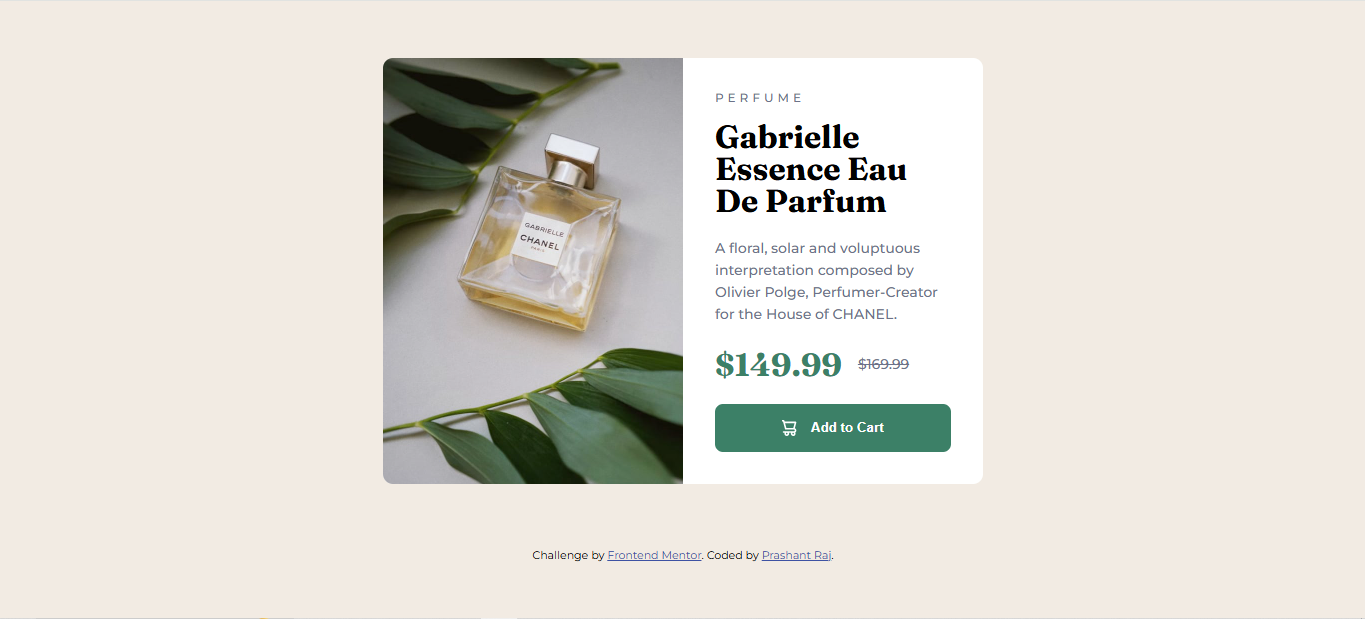
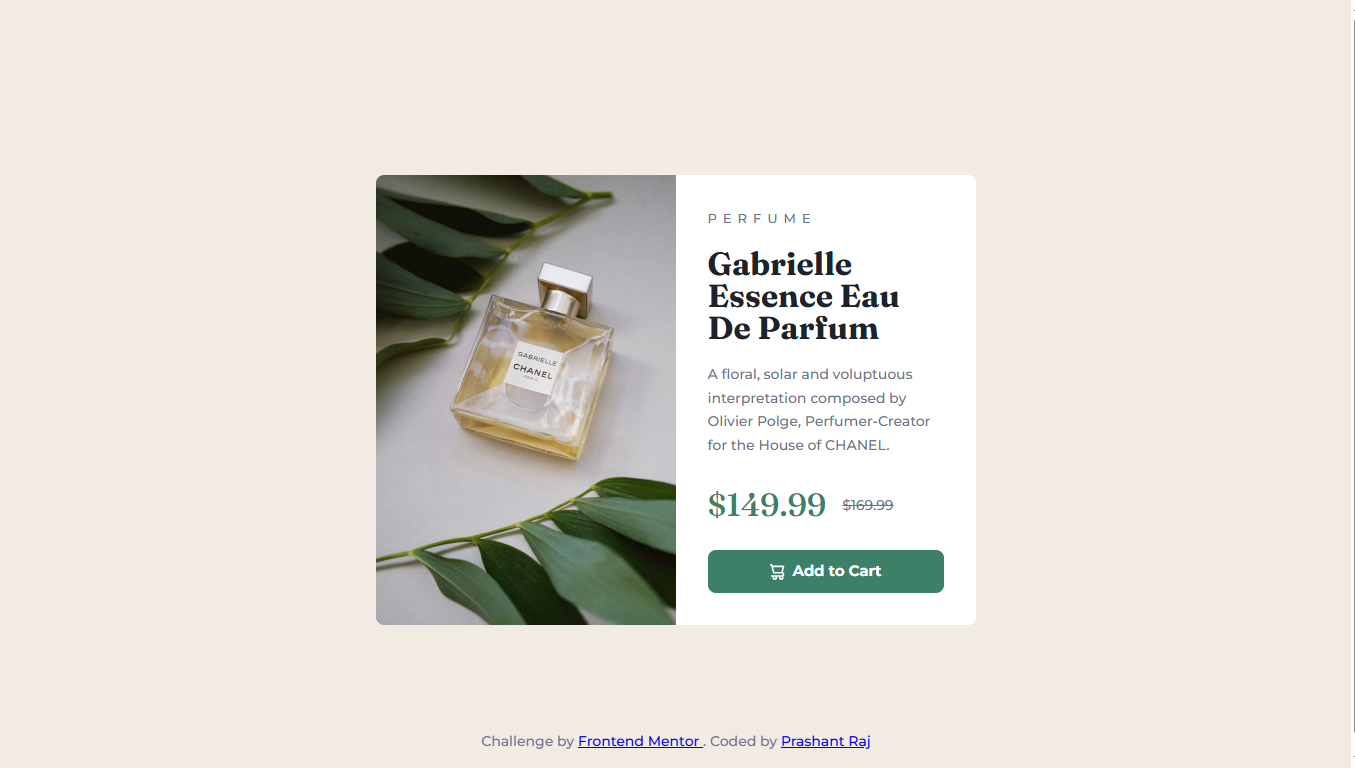
Center attribution text in product preview card component

diff --git a/product-preview-card-component/style.css b/product-preview-card-component/style.css
@@ -174,5 +174,7 @@ body {
 
 .attribution {
   position: fixed;
+  left: 50%;
+  transform: translateX(-50%);
   bottom: 1em;
 }
